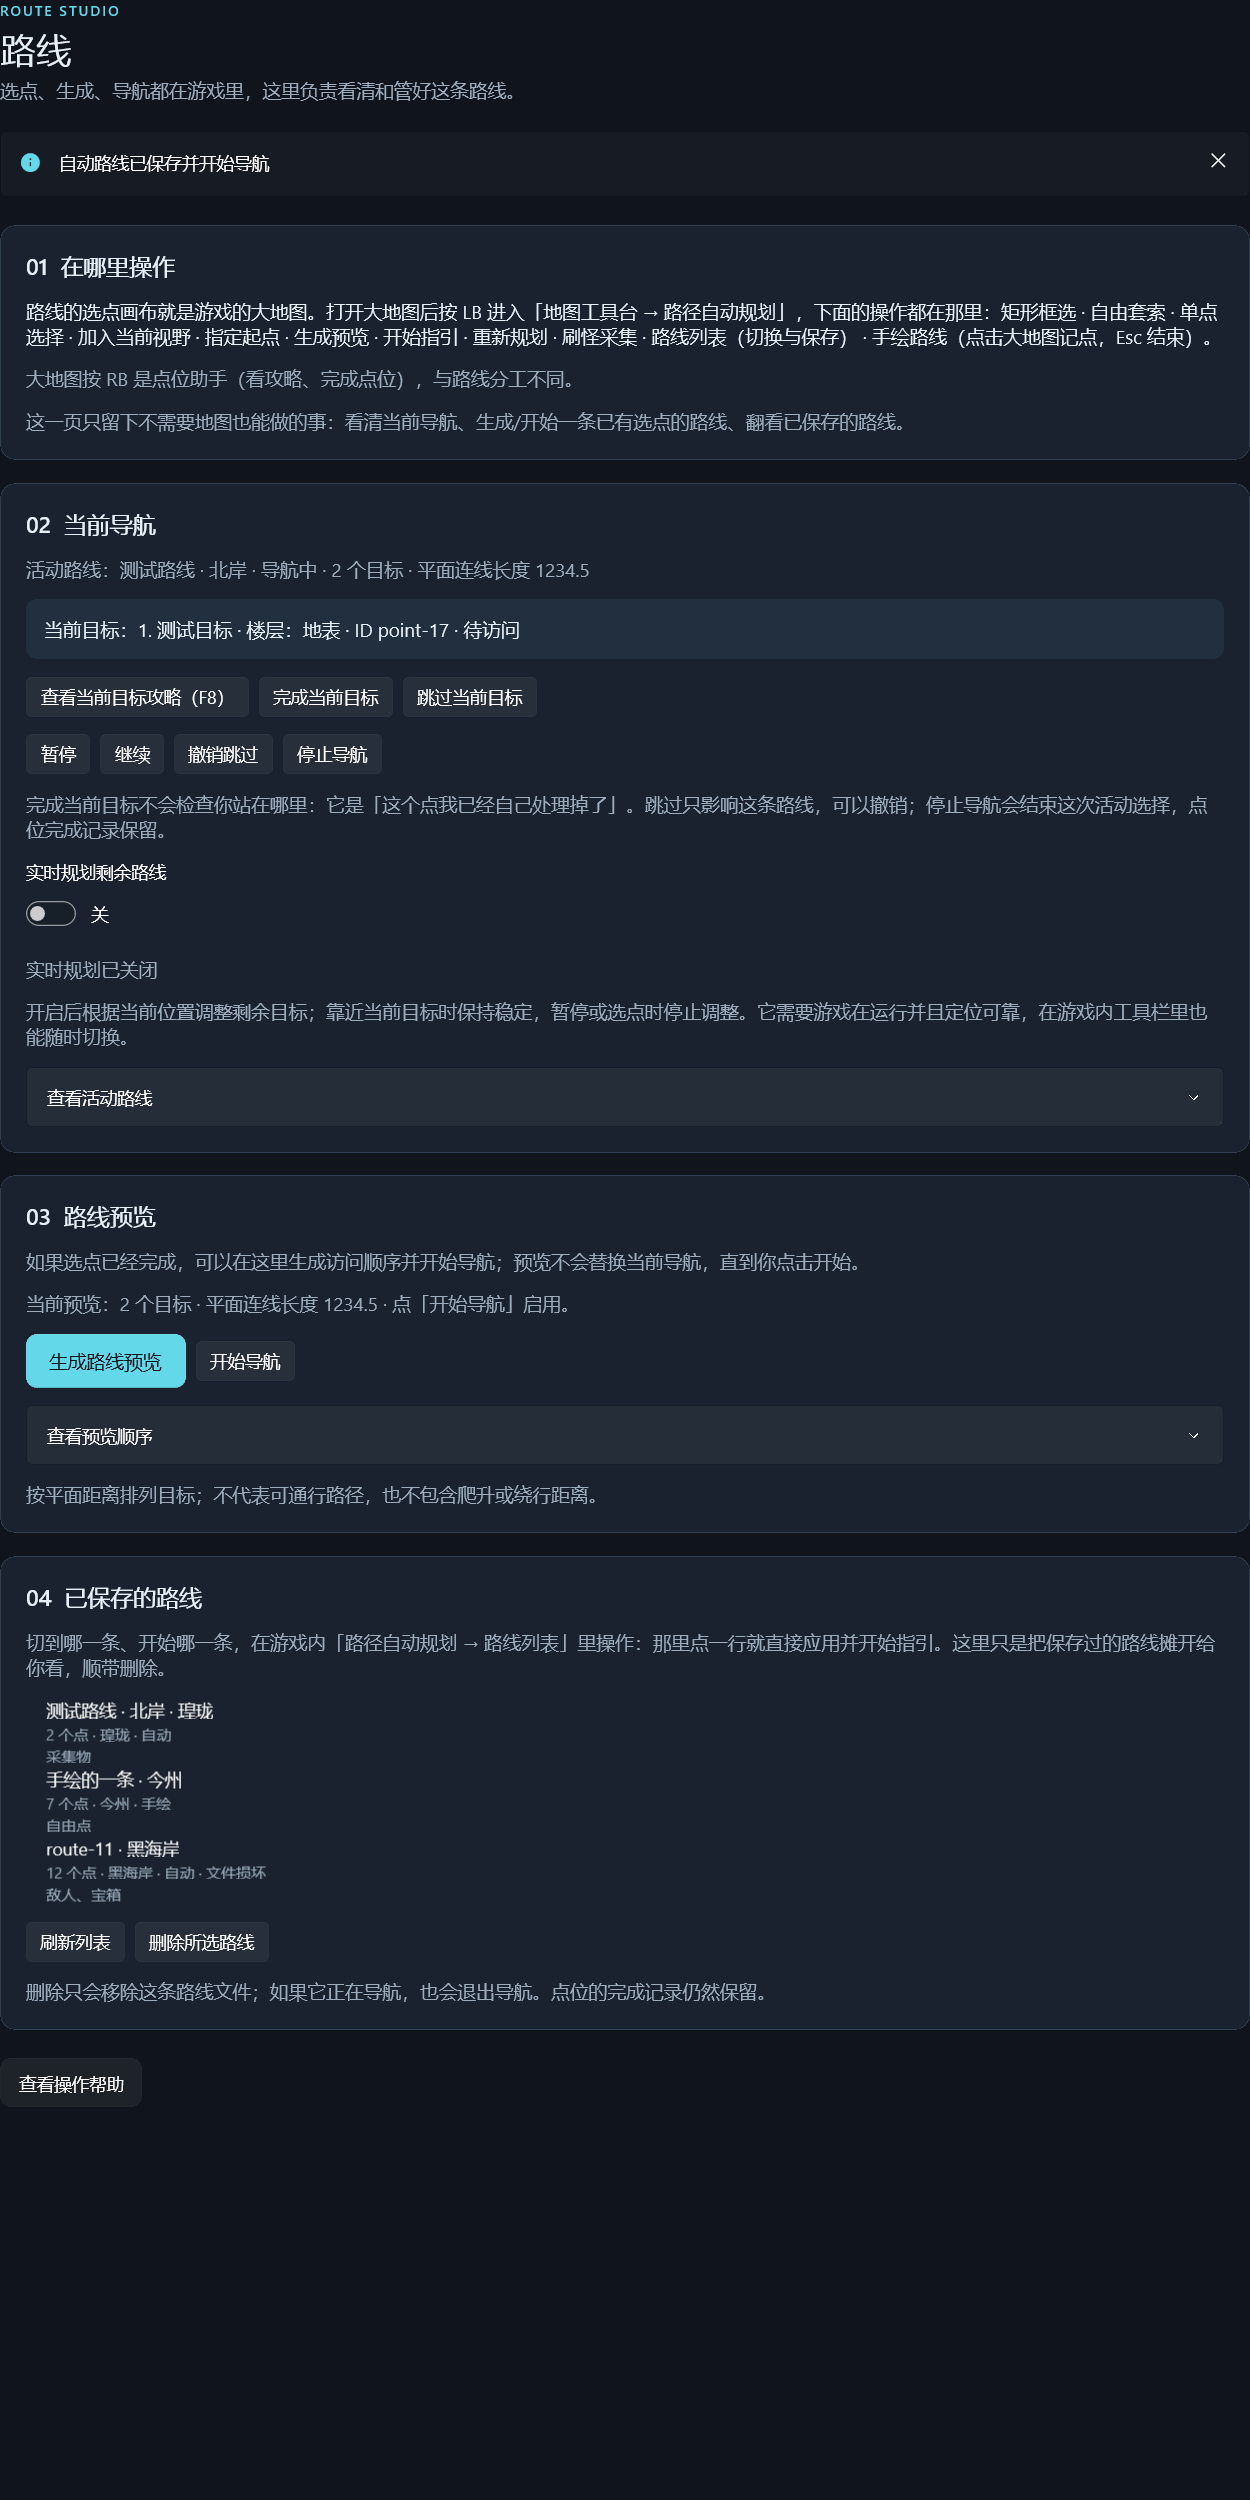
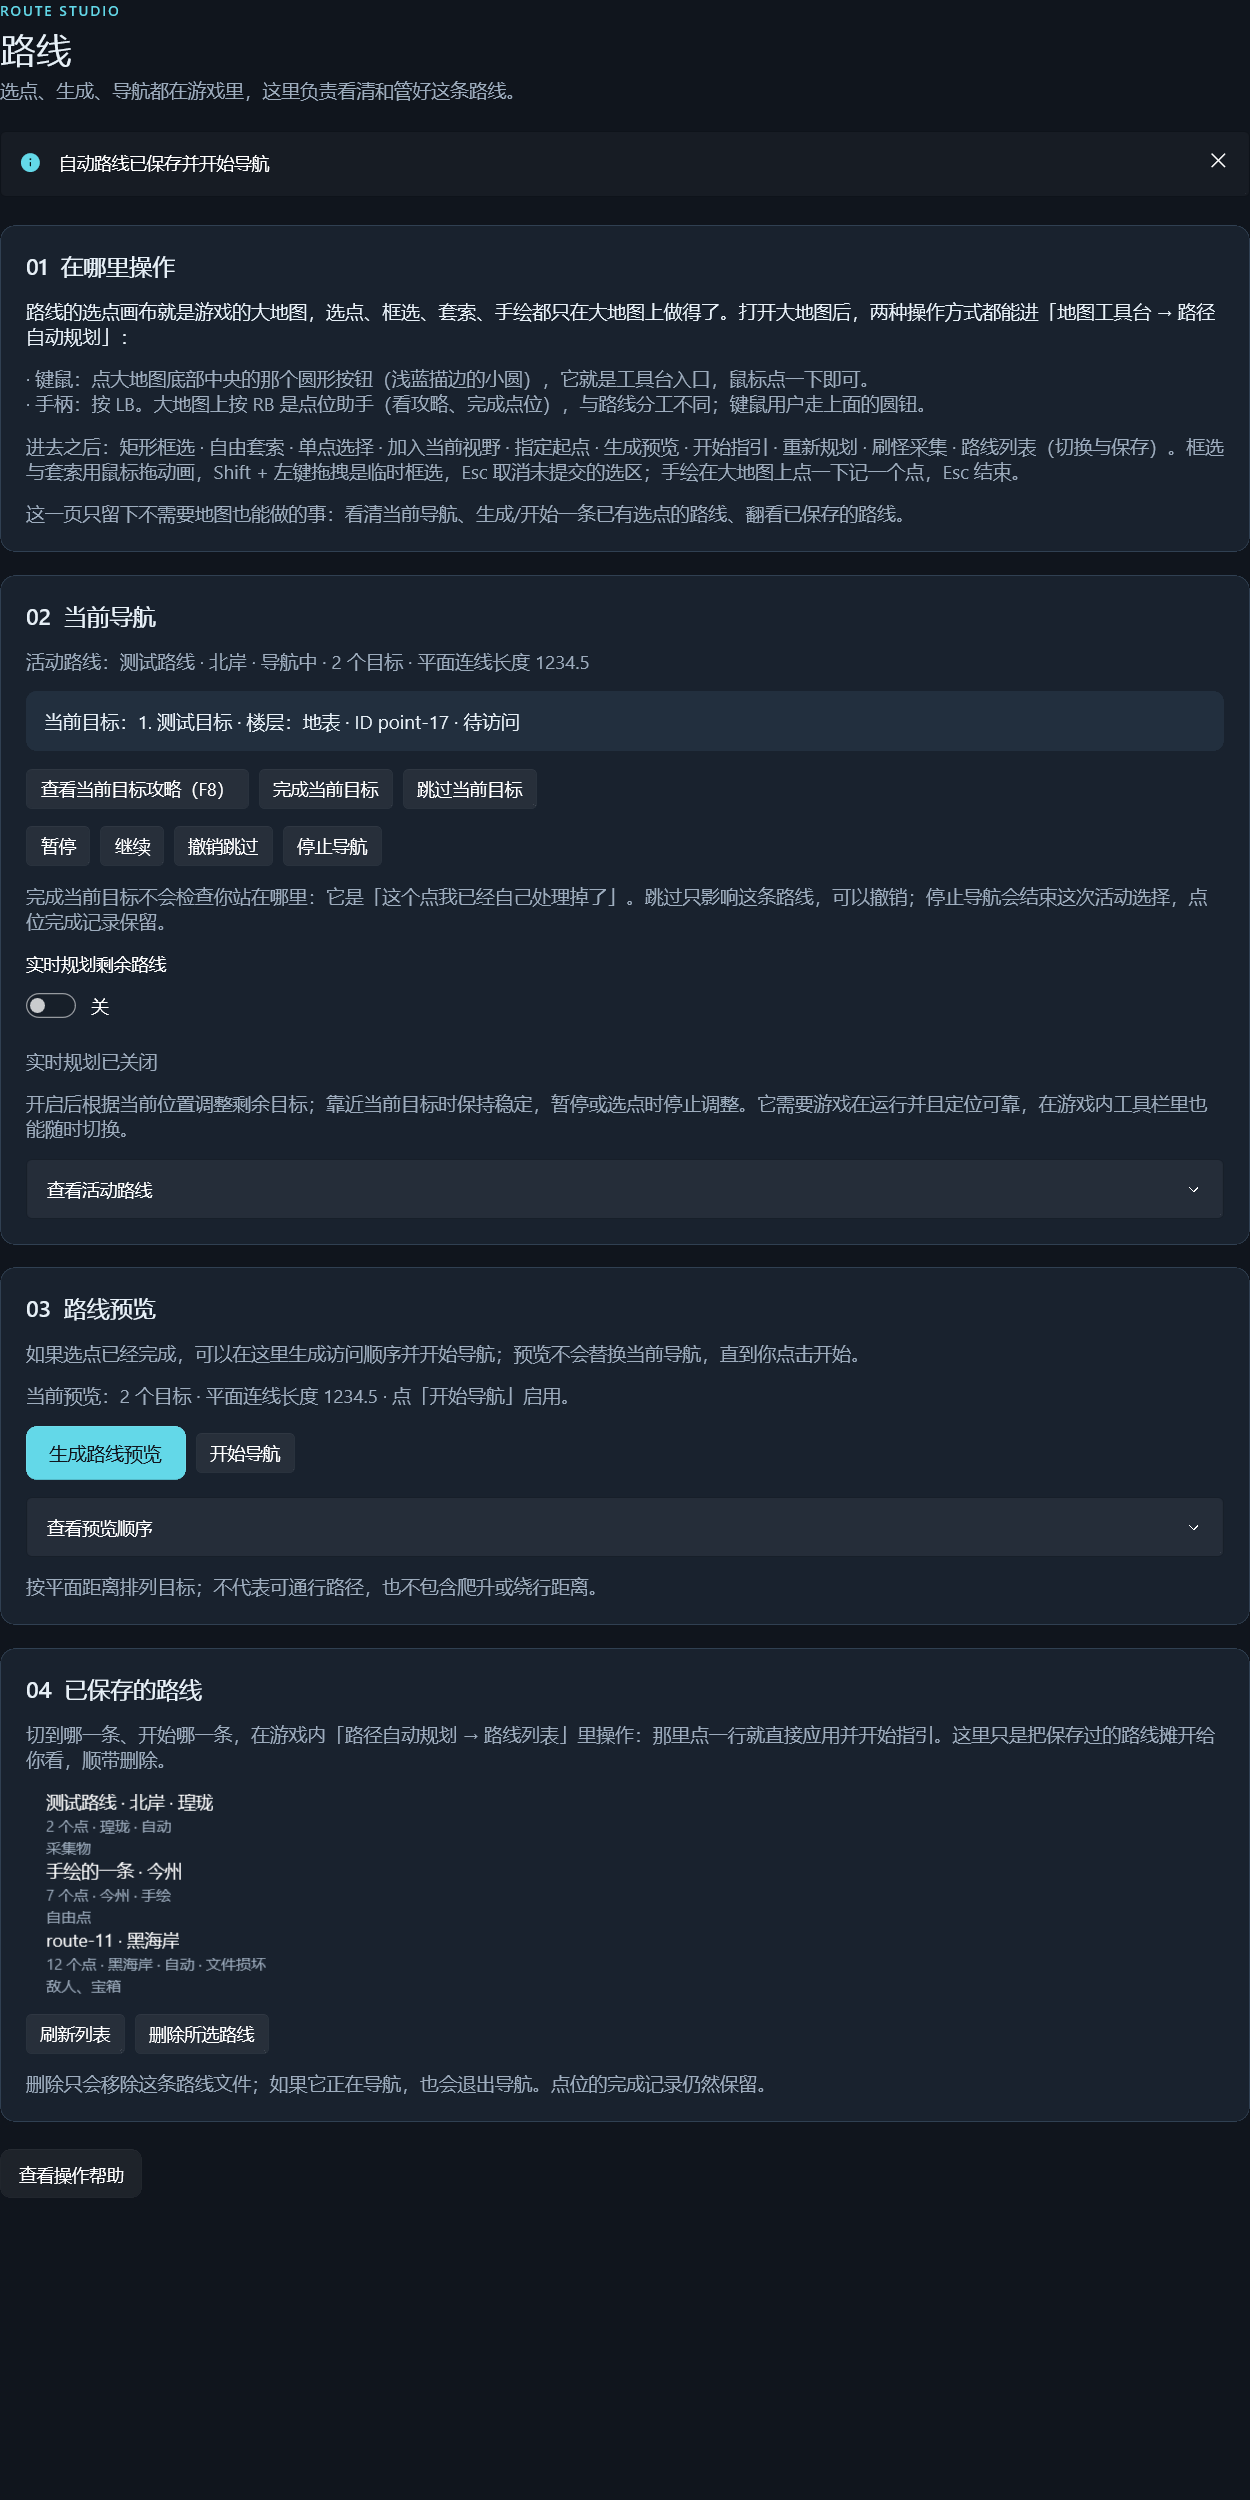
Describe the map tools entry for keyboard and mouse, not just the gamepad
The route page's "where the operations live" card told the player to press LB,
which reads as if the in-game map tools were a controller feature. They are not:
the launcher is a round button drawn at the bottom centre of the big map
(DrawMarkerInteraction.cpp:1267-1294 registers the `maptools:open` region, :269-270
hit-tests it as a circle, :541-544 captures a left click, :1184-1191 publishes
`markerMapToolsRequested`) and it reaches the same MapToolsController.OpenAsync that
LB does. Mouse and gamepad have always been equal here - box/lasso accept a plain
mouse drag (:552-554) and Shift+left is the temporary box select (:478).

The card now leads with the mouse path and lists LB beside it, and spells out the
keyboard side of the canvas: drag to draw, Shift+left for a temporary box, Esc to
cancel an unsubmitted selection, click to record a hand-drawn point. The default
empty-state message in RoutePlanningState says the same thing in one line.

The audit document is corrected too: its opening claim that LB was the only entry
was wrong, and section 1.1 now records both paths with their code locations.

diff --git a/IMao-WinUI/Views/FunctionPage.xaml b/IMao-WinUI/Views/FunctionPage.xaml
@@ -7,8 +7,9 @@
             <Border Style="{StaticResource IMaoCardStyle}">
                 <StackPanel Spacing="14">
                     <TextBlock Text="01  在哪里操作" Style="{StaticResource IMaoSectionTitleStyle}" />
-                    <TextBlock Text="路线的选点画布就是游戏的大地图。打开大地图后按 LB 进入「地图工具台 → 路径自动规划」，下面的操作都在那里：矩形框选 · 自由套索 · 单点选择 · 加入当前视野 · 指定起点 · 生成预览 · 开始指引 · 重新规划 · 刷怪采集 · 路线列表（切换与保存） · 手绘路线（点击大地图记点，Esc 结束）。" Style="{StaticResource IMaoBodyTextStyle}" TextWrapping="Wrap" />
-                    <TextBlock Text="大地图按 RB 是点位助手（看攻略、完成点位），与路线分工不同。" Style="{StaticResource IMaoSecondaryTextStyle}" TextWrapping="Wrap" />
+                    <TextBlock Text="路线的选点画布就是游戏的大地图，选点、框选、套索、手绘都只在大地图上做得了。打开大地图后，两种操作方式都能进「地图工具台 → 路径自动规划」：" Style="{StaticResource IMaoBodyTextStyle}" TextWrapping="Wrap" />
+                    <TextBlock Text="· 键鼠：点大地图底部中央的那个圆形按钮（浅蓝描边的小圆），它就是工具台入口，鼠标点一下即可。&#x0a;· 手柄：按 LB。大地图上按 RB 是点位助手（看攻略、完成点位），与路线分工不同；键鼠用户走上面的圆钮。" Style="{StaticResource IMaoSecondaryTextStyle}" TextWrapping="Wrap" />
+                    <TextBlock Text="进去之后：矩形框选 · 自由套索 · 单点选择 · 加入当前视野 · 指定起点 · 生成预览 · 开始指引 · 重新规划 · 刷怪采集 · 路线列表（切换与保存）。框选与套索用鼠标拖动画，Shift + 左键拖拽是临时框选，Esc 取消未提交的选区；手绘在大地图上点一下记一个点，Esc 结束。" Style="{StaticResource IMaoSecondaryTextStyle}" TextWrapping="Wrap" />
                     <TextBlock Text="这一页只留下不需要地图也能做的事：看清当前导航、生成/开始一条已有选点的路线、翻看已保存的路线。" Style="{StaticResource IMaoSecondaryTextStyle}" TextWrapping="Wrap" />
                 </StackPanel>
             </Border>

diff --git a/IMao-WinUI/Models/RoutePlanningState.cs b/IMao-WinUI/Models/RoutePlanningState.cs
@@ -25,7 +25,7 @@ public sealed record RoutePlanningState
     public RouteStop? PreviousTarget { get; init; }
     public ulong Revision { get; init; }
     public ulong Generation { get; init; }
-    public string Message { get; init; } = "打开游戏大地图后开始选点。";
+    public string Message { get; init; } = "打开游戏大地图后开始选点：键鼠点底部中央的圆钮，手柄按 LB。";
     public int SelectedCount { get; init; }
     public int HiddenCount { get; init; }
     public RouteStart Start { get; init; } = new();
